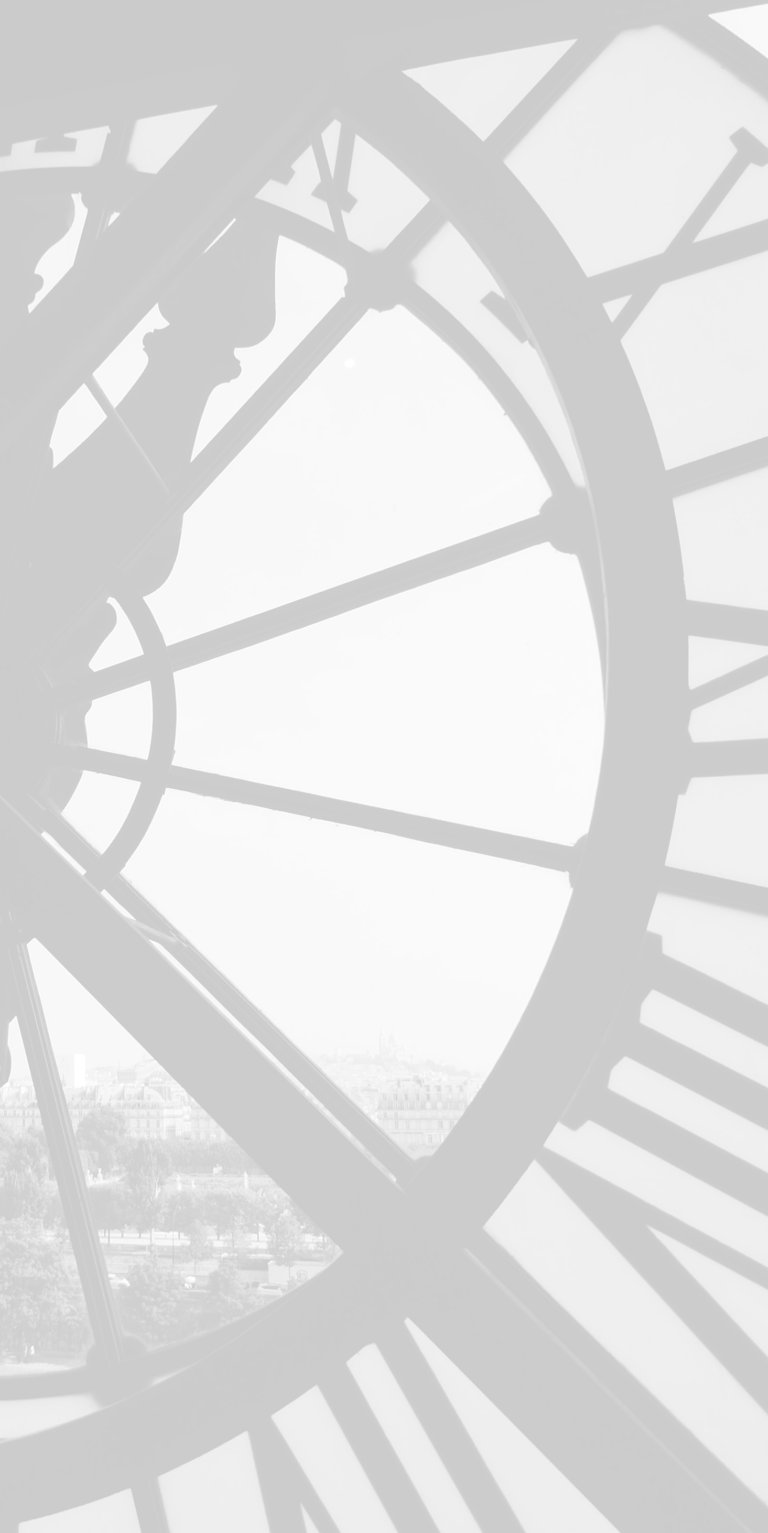
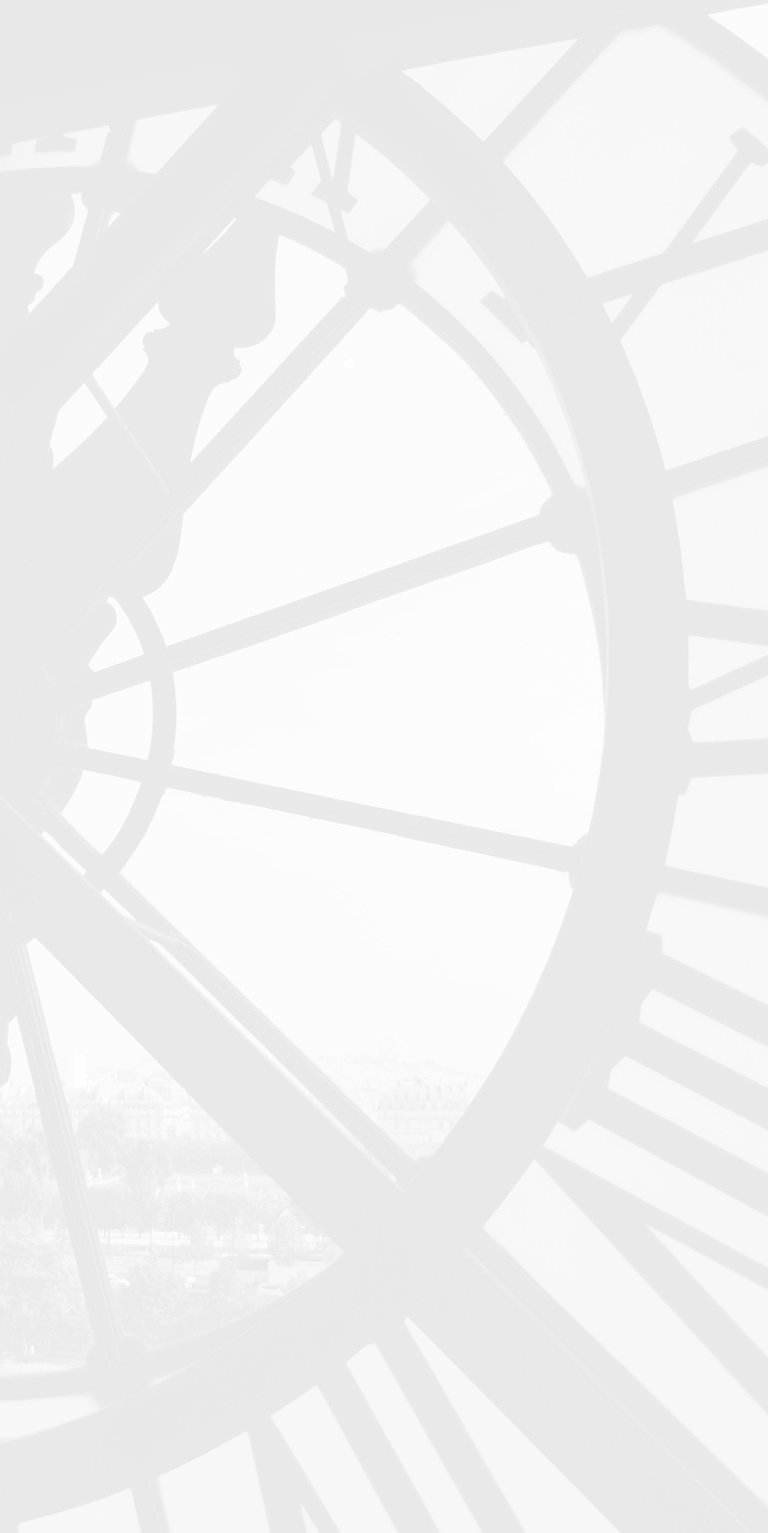
Updating style

diff --git a/static/tstyle.css b/static/tstyle.css
@@ -1,11 +1,10 @@
 body {
+	background-color: rgba(192, 192, 192, 0.3);
 	margin: auto;
 	text-align: center;
-	font-size: 1.25em;
-	color: darkslategrey;
 	max-width: 1000px;
 	height: 100%;
-	font-family: Georgia;
+	font: oblique 1.25em Georgia;
 }
 
 .content {
@@ -33,20 +32,16 @@ th, td {
 }
 
 tr:nth-child(even) {
-	background-color: rgb(119, 136, 153, 0.5);
+	background-color: rgb(119, 136, 153, 0.3);
 }
 
 input, select {
 	padding: 8px;
-	box-shadow: 4px 7px 10px grey;
+	box-shadow: 4px 8px 10px grey;
 	border-radius: 10px;
 	margin: 15px;
 	width: 220px;
-	background-color: white;
-}
-
-footer {
-	margin: 15% auto;
+	background-color: snow;
 }
 
 .button {
@@ -64,71 +59,80 @@ footer {
 	box-shadow: 5px 10px 10px black;
 }
 
+footer {
+	margin: 10% auto;
+}
+
 img {
 	width: 100%;
 }
+
 .info {
 	background-color: rgb(0, 0, 0, 0.1);
 	padding: 20px;
 	text-align: left;
 	border-radius: 5px;
-	font-style: italic;
 }
 
 figcaption {
-	font-style: italic;
 	font-size: 80%;
 }
 
-/* Bob */
+/* Hover Bob */
+
 @-webkit-keyframes hvr-bob {
 	0% {
-	  -webkit-transform: translateY(-8px);
-	  transform: translateY(-8px);
+		-webkit-transform: translateY(-8px);
+		transform: translateY(-8px);
 	}
 	50% {
-	  -webkit-transform: translateY(-4px);
-	  transform: translateY(-4px);
+		-webkit-transform: translateY(-4px);
+		transform: translateY(-4px);
 	}
 	100% {
-	  -webkit-transform: translateY(-8px);
-	  transform: translateY(-8px);
+		-webkit-transform: translateY(-8px);
+		transform: translateY(-8px);
 	}
-  }
-  @keyframes hvr-bob {
+}
+
+@keyframes hvr-bob {
 	0% {
-	  -webkit-transform: translateY(-8px);
-	  transform: translateY(-8px);
+		-webkit-transform: translateY(-8px);
+		transform: translateY(-8px);
 	}
 	50% {
-	  -webkit-transform: translateY(-4px);
-	  transform: translateY(-4px);
+		-webkit-transform: translateY(-4px);
+		transform: translateY(-4px);
 	}
 	100% {
-	  -webkit-transform: translateY(-8px);
-	  transform: translateY(-8px);
+		-webkit-transform: translateY(-8px);
+		transform: translateY(-8px);
 	}
-  }
-  @-webkit-keyframes hvr-bob-float {
+}
+
+@-webkit-keyframes hvr-bob-float {
 	100% {
-	  -webkit-transform: translateY(-8px);
-	  transform: translateY(-8px);
+		-webkit-transform: translateY(-8px);
+		transform: translateY(-8px);
 	}
-  }
-  @keyframes hvr-bob-float {
+}
+
+@keyframes hvr-bob-float {
 	100% {
-	  -webkit-transform: translateY(-8px);
-	  transform: translateY(-8px);
+		-webkit-transform: translateY(-8px);
+		transform: translateY(-8px);
 	}
-  }
-  .hvr-bob {
+}
+
+.hvr-bob {
 	display: inline-block;
 	vertical-align: middle;
 	-webkit-transform: perspective(1px) translateZ(0);
 	transform: perspective(1px) translateZ(0);
 	box-shadow: 0 0 1px rgba(0, 0, 0, 0);
-  }
-  .hvr-bob:hover, .hvr-bob:focus, .hvr-bob:active {
+}
+
+.hvr-bob:hover, .hvr-bob:focus, .hvr-bob:active {
 	-webkit-animation-name: hvr-bob-float, hvr-bob;
 	animation-name: hvr-bob-float, hvr-bob;
 	-webkit-animation-duration: .3s, 1.5s;
@@ -144,4 +148,4 @@ figcaption {
 	-webkit-animation-direction: normal, alternate;
 	animation-direction: normal, alternate;
 	color: beige;
-  }
+}

diff --git a/templates/processing_file.html b/templates/processing_file.html
@@ -41,41 +41,44 @@
 			practice, to achieve reliable results; models are selected based on the findings from a thorough exploratory
 			analysis of the data, and they often need several rounds of evaluation and fine-tuning.</blockquote>
 
-			<img src="{{ graphs['model_fit'] }}">
+		<img src="{{ graphs['model_fit'] }}">
 
 
 		<h2>2. Numerical output</h2>
 		<div class="info">
 			<p>A 14-period sample of the results, just to see how the numbers vary.</p>
 		</div>
+		<div style="overflow-x: auto;">
+			<table>
+				<tr>
+					<th>Index</th>
+					<th>Actual Data</th>
+					<th>AR(Autoreg)</th>
+					<th>ARMA</th>
+					<th>Exponential Smoothing</th>
+				</tr>
+				{% for index, values in sample.iterrows() %}
+				<tr>
+					<td>{{ index }}</td>
+					<td>{{ values['Actual Data']|round(4) }}</td>
+					<td>{{ values['AR']|round(4) }}</td>
+					<td>{{ values['ARMA']|round(4) }}</td>
+					<td>{{ values['Exponential Smoothing']|round(4) }}</td>
+				</tr>
+				{% endfor %}
+				<tr>
+					<td><b>Totals</b></td>
+					{% for total in totals[0] %}
+					<td><b>{{ total|round(4) }}</b></td>
+					{% endfor %}
+				</tr>
+			</table>
+		</div>
 	</div>
-	<table>
-		<tr>
-			<th>Index</th>
-			<th>Actual Data</th>
-			<th>AR(Autoreg)</th>
-			<th>ARMA</th>
-			<th>Exponential Smoothing</th>
-		</tr>
-		{% for index, values in sample.iterrows() %}
-		<tr>
-			<td>{{ index }}</td>
-			<td>{{ values['Actual Data']|round(4) }}</td>
-			<td>{{ values['AR']|round(4) }}</td>
-			<td>{{ values['ARMA']|round(4) }}</td>
-			<td>{{ values['Exponential Smoothing']|round(4) }}</td>
-		</tr>
-		{% endfor %}
-		<tr>
-			<td><b>Totals</b></td>
-			{% for total in totals[0] %}
-			<td><b>{{ total|round(4) }}</b></td>
-			{% endfor %}
-		</tr>
-	</table>
+
 	<a class="hvr-bob button" href="{{ url_for('static', filename='results.csv') }}">Download Results</a>
 	<footer>
-		<a class="hvr-bob button" href="/">Back to Home</a>
+		<a class="hvr-bob button" href="{{ url_for('index') }}">Back to Home</a>
 	</footer>
 </body>
 

diff --git a/templates/base.html b/templates/base.html
@@ -1,17 +1,18 @@
 <!DOCTYPE html>
 <html>
+
 <head>
 	<title>{% block title %}{% endblock %}</title>
 	<link rel="stylesheet" type="text/css" href="{{ url_for('static', filename='tstyle.css')}}">
 	<meta name="viewport" content="width=device-width, initial-scale=1">
-	<style type="text/css">
+	<style>
 		body {
-			background-color: silver;
-			background-image: url({{ url_for('static', filename='background_large.jpg')}});
+			background-image: url("{{ url_for('static', filename='background_large.jpg')}}");
 		}
+
 		@media only screen and (max-width: 640px) {
 			body {
-				background-image: url({{ url_for('static', filename='background_small.jpg')}});
+				background-image: url("{{ url_for('static', filename='background_small.jpg') }}");
 			}
 		}
 	</style>

diff --git a/templates/index.html b/templates/index.html
@@ -18,9 +18,10 @@
 	</figure>
 	<div class="content">
 		<p>To give it a try, you can upload a file or create a sample to analyse:</p>
-		<a href="{{url_for('upload_file')}}"><button class="hvr-bob button">Upload a file</button></a>
-		<a href="{{ url_for('create_sample')}}"><button class="hvr-bob button">Create a
-				sample</button></a>
+
+		<a href="{{url_for('upload_file')}}" class="hvr-bob button">Upload a file</a>
+		<a href="{{ url_for('create_sample')}}" class="hvr-bob button">Create a
+			sample</a>
 	</div>
 </body>
 
